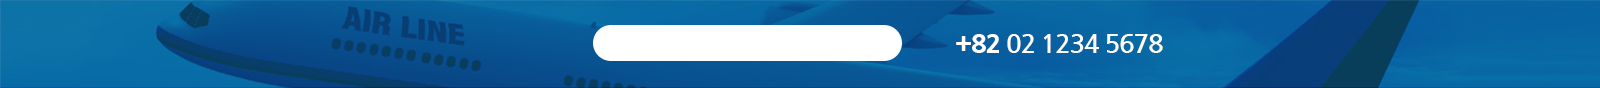
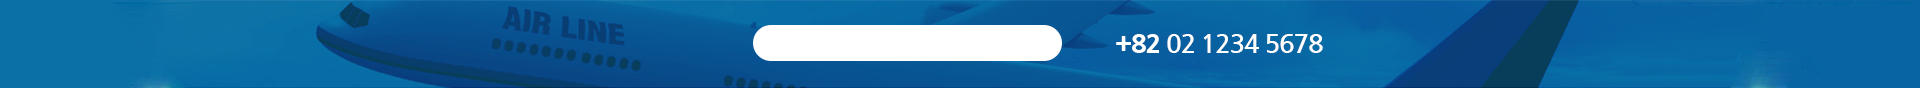
111

diff --git a/css/webpage_sub.css b/css/webpage_sub.css
@@ -2,7 +2,7 @@
 
 /*header*/
 #header_wrap{height: 158px;width: 100%;background: #076fa6;}
-.header_img{background: url(../images-h/air.png) no-repeat;margin: 0 auto;width: 1600px;height: 88px;}
+.header_img{background: url(../images-h/air.png) no-repeat;margin: 0 auto;width: 100%;}
 .header{width: 1000px;height: 88px;position: relative;margin: 0 auto}
 
 .header>img{display: block;width: 200px;height: 88px;}
@@ -42,7 +42,7 @@ line-height: 70px;}
 /*background top*/
 .bgt_wrap{width: 100%;background: #eee;height: 1300px;border-top: 3px solid #0f73a7;}
 .bgt_bg{width: 100%;background: #6fb4df;height: 288px;}
-.bgt{margin: 0 auto;background: url(../images-h/som.png) no-repeat;width: 1600px;height: 288px;
+.bgt{margin: 0 auto;background: url(../images-h/island.png) no-repeat;width: 100%;height: 288px;
 text-align: center;color: #fff;font-size: 18px;}
 .bgt a{display: block;text-align: center;padding-top: 40px;width: 460px;height: 148px;
 margin: 0 auto;}

diff --git a/css/webpage.css b/css/webpage.css
@@ -2,7 +2,7 @@
 
 /*header*/
 #header_wrap{height: 158px;width: 100%;background: #076fa6;}
-.header_img{background: url(../images-h/air.png) no-repeat;margin: 0 auto;width: 1600px;height: 88px;}
+.header_img{background: url(../images-h/air.png) no-repeat;margin: 0 auto;width: 100%;height: 88px;}
 .header{width: 1000px;height: 88px;position: relative;margin: 0 auto}
 
 .header>img{display: block;width: 200px;height: 88px;}
